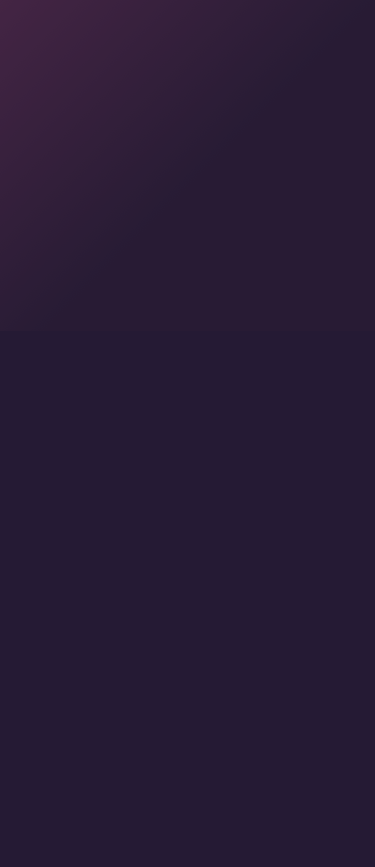
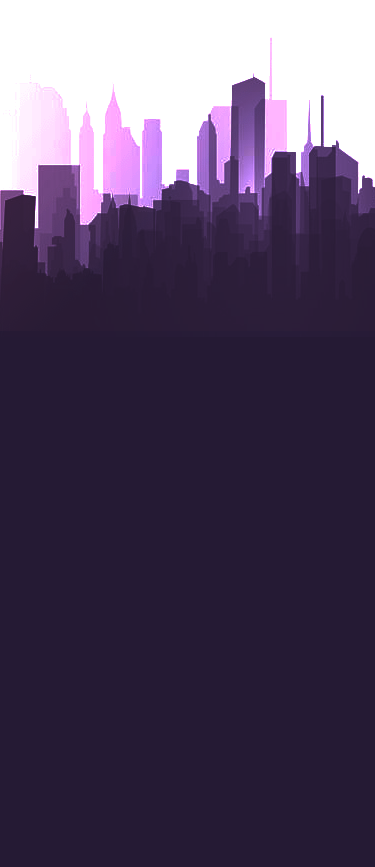
updated wallpaper

Changed region(s): [[0.0, 0.0, 1.0, 0.3114]]

diff --git a/app/screens/welcome/welcome-screen.tsx b/app/screens/welcome/welcome-screen.tsx
@@ -7,7 +7,6 @@ import { color, spacing, typography } from "../../theme"
 
 const FULL: ViewStyle = { flex: 1 }
 const CONTAINER: ViewStyle = {
-  backgroundColor: color.storybookDarkBg,
   paddingHorizontal: spacing[4],
   justifyContent: "center",
   alignItems: "center",
@@ -16,6 +15,7 @@ const CONTAINER: ViewStyle = {
 const TEXT: TextStyle = {
   color: color.palette.white,
   fontFamily: typography.primary,
+  fontSize: 20,
 }
 const BOLD: TextStyle = { fontWeight: "bold" }
 const HEADER: TextStyle = {
@@ -79,7 +79,6 @@ const FOOTER_CONTENT: ViewStyle = {
 
 export const WelcomeScreen = observer(function WelcomeScreen() {
   const navigation = useNavigation()
-  const nextScreen = () => navigation.navigate("demo")
 
   return (
     <View testID="WelcomeScreen" style={FULL}>
@@ -87,6 +86,11 @@ export const WelcomeScreen = observer(function WelcomeScreen() {
       <Screen style={CONTAINER} preset="scroll" backgroundColor={color.transparent}>
         <Text style={TEXT}>Гласувай електронно!</Text>
       </Screen>
+      <View style={FOOTER}>
+        <View style={FOOTER_CONTENT}>
+          <Button preset="primary" text="Вход" />
+        </View>
+      </View>
     </View>
   )
 })

diff --git a/app/components/wallpaper/wallpaper.presets.ts b/app/components/wallpaper/wallpaper.presets.ts
@@ -22,7 +22,7 @@ export const presets = {
    */
   stretch: {
     ...BASE,
-    resizeMode: "stretch",
+    resizeMode: "cover",
     width: null, // Have to set these to null because android ¯\_(ツ)_/¯
     height: null,
   } as ImageStyle,
